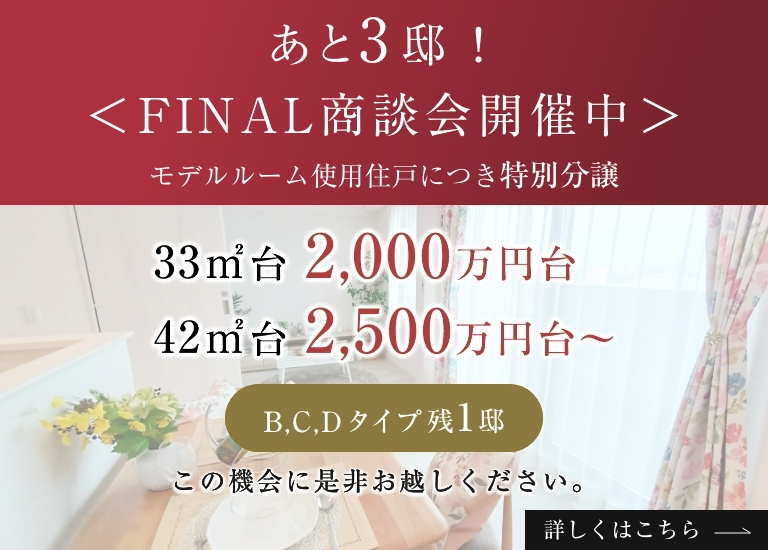
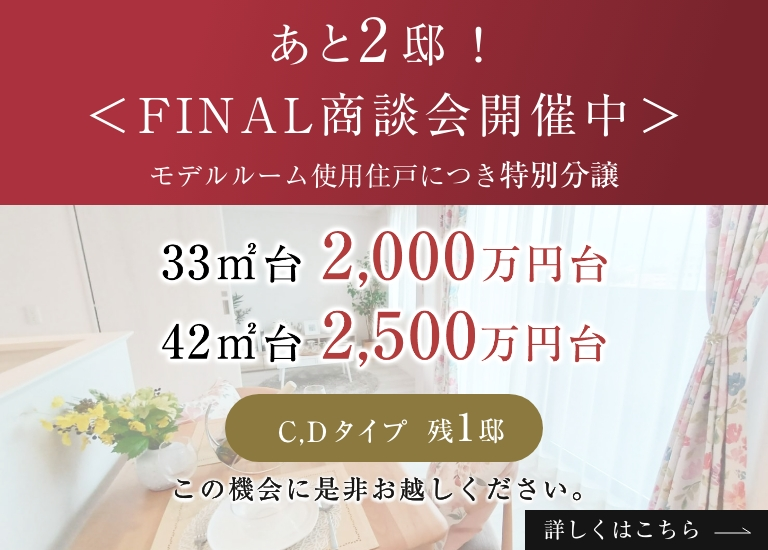
no message

Changed region(s): [[0.1875, 0.4018, 0.8125, 0.9273], [0.4688, 0.0309, 0.5, 0.1236]]

diff --git a/special/modelroom/index.html b/special/modelroom/index.html
@@ -120,7 +120,7 @@ $(function(){
 	<section class="anker">
 		<ul>
 <!--            <li><a href="#Etype"><img src="images/anker_btn_E_pc.jpg" class="pc"><img src="images/anker_btn_E_sp.jpg" class="sp"></a></li>-->
-            <li><a href="#Btype"><img src="images/anker_btn_B_pc.jpg" class="pc"><img src="images/anker_btn_B_sp.jpg" class="sp"></a></li>
+<!--            <li><a href="#Btype"><img src="images/anker_btn_B_pc.jpg" class="pc"><img src="images/anker_btn_B_sp.jpg" class="sp"></a></li>-->
             <li><a href="#Ctype-8f"><img src="images/anker_btn_C-8f_pc.jpg" class="pc"><img src="images/anker_btn_C-8f_sp.jpg" class="sp"></a></li>
 <!--			<li><a href="#Ctype"><img src="images/anker_btn_C_pc.jpg" class="pc"><img src="images/anker_btn_C_sp.jpg" class="sp"></a></li>-->
             <li><a href="#Dtype"><img src="images/anker_btn_D_pc.jpg" class="pc"><img src="images/anker_btn_D_sp.jpg" class="sp"></a></li>
@@ -256,6 +256,7 @@ $(function(){
 	</section>
 -->
     
+<!--
     <section id="Btype" class="photo">
 
 		<div class="plan_detail">
@@ -333,11 +334,9 @@ $(function(){
 
 					</div>
 
-<!--
 						<div class="bunjou_sumi">
 							<img src="images/f_4_bunjou.png">
 						</div>
--->
 
 					<div class="thumb">
 						<div>
@@ -415,6 +414,7 @@ $(function(){
             <a href="../../special/modelroom_cg/" class="model_cg">CGモデルルームはこちら</a>
         </div>
 	</section>
+-->
     
     
     <section id="Ctype-8f" class="photo">
@@ -920,7 +920,7 @@ $(function(){
 <div class="inner">
 <ul>
 <li>※1 掲載のCGバーチャルモデルルーム画像はコーディネートは参考となります。家具・備品等に関しては配置例を示したもので実際に同じものが配置できない場合があります。あらかじめご了承ください。</li>
-<li>※掲載の写真は、モデルルームB・Ctypeを撮影（2022年4月、2023年5月）したものにCG加工を施したものです。施工上の都合や行政官庁の指導等により変更が生じる場合がございます。 また家具・調度品・照明等は、販売価格に含まれておりません。有償・無償オプション等にはお申し込み期限がございます。詳しくは係員にお尋ねください。</li>
+<li>※掲載の写真は、モデルルームCtypeを撮影（2022年4月、2023年5月）したものにCG加工を施したものです。施工上の都合や行政官庁の指導等により変更が生じる場合がございます。 また家具・調度品・照明等は、販売価格に含まれておりません。有償・無償オプション等にはお申し込み期限がございます。詳しくは係員にお尋ねください。</li>
 <!--<li>※掲載のコーディネートは参考となります。家具・備品等に関しては配置例を示したもので実際に同じものが配置できない場合があります。あらかじめご了承ください。</li>-->
 <li>※家具付き分譲は現状でのお引渡しとなります。予めご了承ください。</li>
 </ul>

diff --git a/index.html b/index.html
@@ -105,7 +105,7 @@ j=d.createElement(s),dl=l!='dataLayer'?'&l='+l:'';j.async=true;j.src=
 <!--    <li><a href="special/modelroom/#Etype"><img src="images/img_slide36.jpg" alt="コーディネート家具付き住戸特別分譲"></a></li>-->
 <!--    <li><a href="plan/c.html"><img src="images/img_slide34.jpg" alt="コーディネート家具付き住戸特別分譲"></a></li>-->
     <li><a href="special/modelroom/#Ctype-8f"><img src="images/img_slide39.jpg" alt="モデルルーム家具付住戸特別分譲"></a></li>
-    <li><a href="special/modelroom/#Btype"><img src="images/img_slide38.jpg" alt="モデルルーム家具付住戸特別分譲"></a></li>
+<!--    <li><a href="special/modelroom/#Btype"><img src="images/img_slide38.jpg" alt="モデルルーム家具付住戸特別分譲"></a></li>-->
     <li><a href="plan/"><img src="images/img_slide03.jpg" alt="間取り"></a></li>
 <!--    <li><a href="https://mid.secure.force.com/reserve?id=a0c1000000kVOCS" target="_blank" ><img src="images/img_slide31.jpg" alt="来場キャンペーン"></a></li>-->
 <!--    <li><a href="https://www.cielia.com/campaign2023_1/" target="_blank" ><img src="images/img_slide37.jpg" alt="サンクスフェア"></a></li>-->

diff --git a/plan/index.html b/plan/index.html
@@ -105,7 +105,7 @@ j=d.createElement(s),dl=l!='dataLayer'?'&l='+l:'';j.async=true;j.src=
          </div>
         </figure>
     
-        <h3 class="plan-point"><span class="inbl">いよいよ、残<span class="big">3</span>邸！</span></h3>
+        <h3 class="plan-point"><span class="inbl">いよいよ、残<span class="big">2</span>邸！</span></h3>
     
 		<section class="ReleasePlanList">
 		<ul class="">
@@ -115,7 +115,7 @@ j=d.createElement(s),dl=l!='dataLayer'?'&l='+l:'';j.async=true;j.src=
 			<li><img src="images/plan_bt_a_menu03.png" alt="Aタイプ メニュー3"/></li>
 
 
-			<li><a href="b.html"><img src="images/plan_bt_b.png" alt="Bタイプ"/></a></li>
+			<li><img src="images/plan_bt_b.png" alt="Bタイプ"/></li>
 			<!-- <li><a href="b_menu01.html"><img src="images/plan_bt_b_menu01.png" alt="Bタイプ メニュー1"/></a></li> -->
 			<!-- <li><a href="b_menu02.html"><img src="images/plan_bt_b_menu02.png" alt="Bタイプ メニュー2"/></a></li> -->
 

diff --git a/member/plan/index.html b/member/plan/index.html
@@ -93,7 +93,7 @@ j=d.createElement(s),dl=l!='dataLayer'?'&l='+l:'';j.async=true;j.src=
 						<!-- <li><a href="a_menu01.html"><img src="images/plan_bt_a_menu01.png" alt="Aタイプ メニュー1"/></a></li> -->
 						<!-- <li><a href="a_menu02.html"><img src="images/plan_bt_a_menu02.png" alt="Aタイプ メニュー2"/></a></li> -->
 						<li><img src="images/plan_bt_a_menu03.png" alt="Aタイプ メニュー3"/></li>
-						<li><a href="b.html"><img src="images/plan_bt_b.png" alt="Bタイプ"/></a></li>
+						<li><img src="images/plan_bt_b.png" alt="Bタイプ"/></li>
 						<!-- <li><a href="b_menu01.html"><img src="images/plan_bt_b_menu01.png" alt="Bタイプ メニュー1"/></a></li> -->
 						<!-- <li><a href="b_menu02.html"><img src="images/plan_bt_b_menu02.png" alt="Bタイプ メニュー2"/></a></li> -->
 						<!-- <li></li> -->
